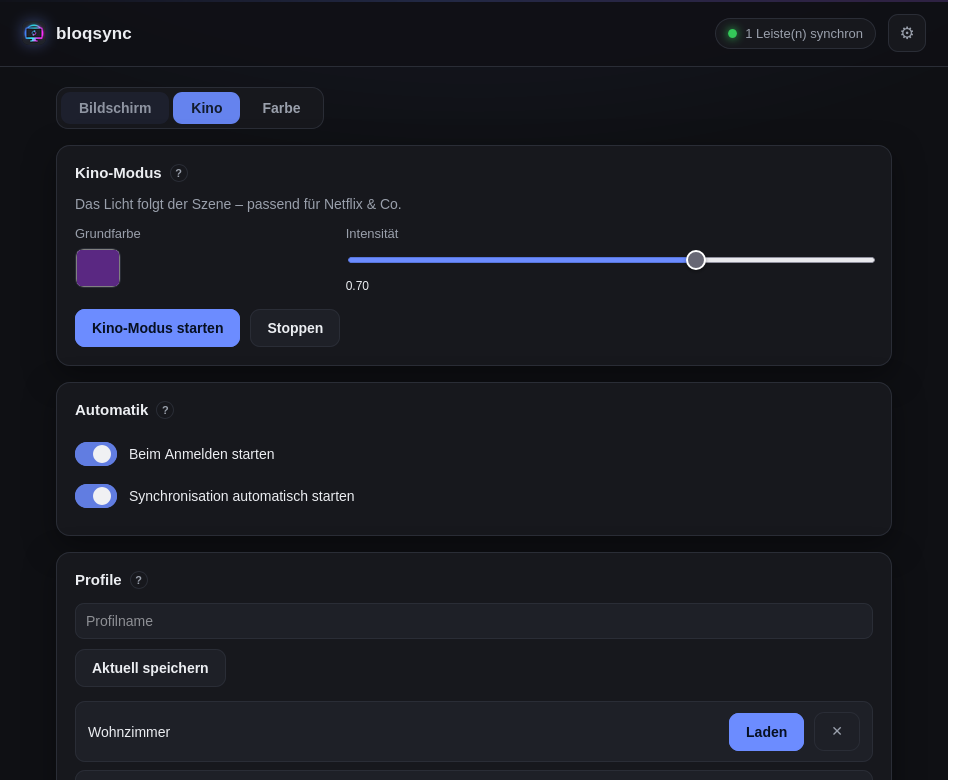
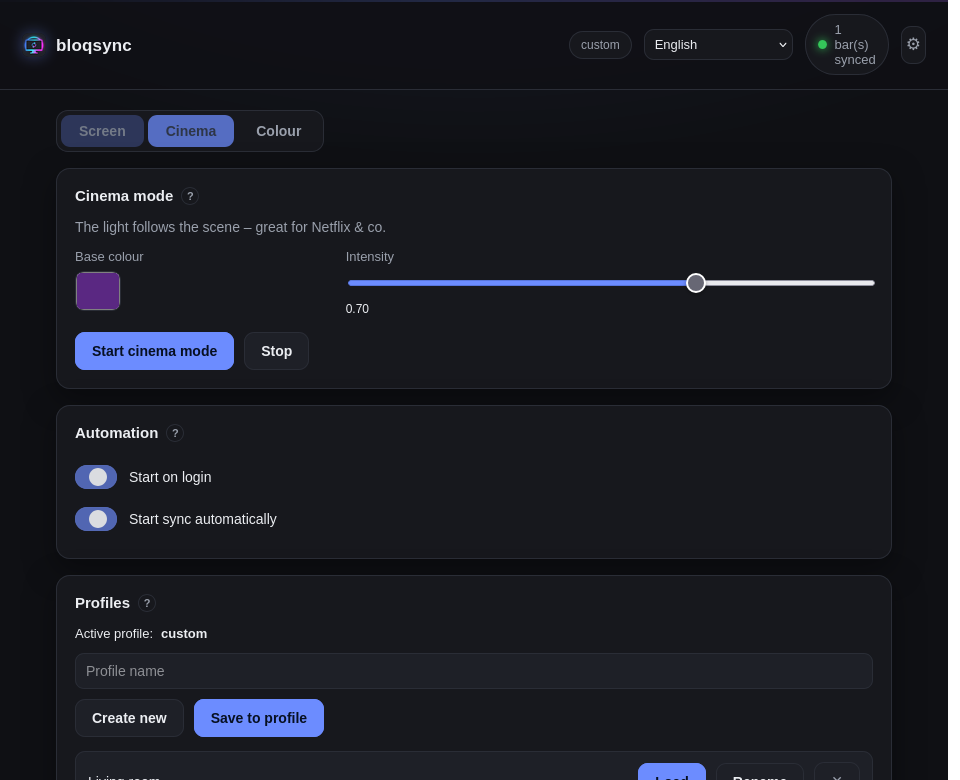
docs: refresh README for profiles, bar models and i18n; new EN screenshots
- document named profiles, bar models (LED count + edge distribution) and
  the English/German UI
- new screenshots of the English UI (normal, expert, cinema, colour)
- frame the hardware notice around configurability instead of '54 LEDs only'

diff --git a/README.md b/README.md
@@ -6,8 +6,13 @@
 [![Platform](https://img.shields.io/badge/platform-Linux%20%7C%20GNOME%2FWayland-informational)](#)
 
 High-performance ambient light ("Ambilight") screen synchronisation for the
-**ROBOBLOQ SyncLight** USB LED bar on Linux (GNOME / Wayland), plus an
+**ROBOBLOQ SyncLight** USB LED bars on Linux (GNOME / Wayland), plus an
 audio-reactive **cinema mode** for DRM content such as Netflix.
+
+- **Plug & play GUI** with a normal mode and an optional expert mode
+- **Named profiles** that remember your settings *and* the bar ↔ monitor mapping
+- **Bar models** (per-bar LED count + edge distribution) for different strip sizes
+- **English & German** UI (more languages easy to add)
 
 > **AI-generated.** The code in this repository was written by an AI model
 > (DeepSeek V4.1 Flash via OpenRouter) and is provided **as-is**. The author does
@@ -23,23 +28,27 @@ audio-reactive **cinema mode** for DRM content such as Netflix.
 > descriptively, to identify the device being driven. The reverse engineering was
 > done **for interoperability** with a personally owned device.
 >
-> **Tested only with** the ROBOBLOQ SyncLight **24″ variant (54 LEDs, firmware
-> 1.9.4)** on **Zorin OS 18.1 / GNOME 46 / PipeWire 1.0.5**, with **two monitors
-> and two bars**. Other sizes, LED counts and revisions are **not tested**.
+> **Developed and tested** on the ROBOBLOQ SyncLight **24″ variant (54 LEDs,
+> firmware 1.9.4)** on **Zorin OS 18.1 / GNOME 46 / PipeWire 1.0.5**, with **two
+> monitors and two bars**. The LED count and edge distribution are configurable
+> through [bar models](#bar-models), so other sizes can be added — they are just
+> not tested yet.
 
 ## Features
 
-- Smooth screen sync with a full **54-LED** gradient (default **24 fps**,
-  smoothing **0.22**; up to ~30 fps possible)
+- Smooth screen sync with a full LED gradient (default **24 fps**, smoothing
+  **0.22**; up to ~30 fps)
 - True per-LED / per-zone control via the fast `setSyncScreen` protocol
 - Capture through **PipeWire** (`xdg-desktop-portal` ScreenCast) — no screenshot
   subprocesses
-- Device auto-discovery, persistent configuration, **Tauri** desktop app
-- **Cinema mode** (audio-reactive) for DRM content: a fixed base colour with a
-  flowing, contrast-driven brightness taken from the audio
+- Device auto-discovery and persistent configuration (**Tauri** desktop app)
 - **Two-level UI**: a plug-and-play normal mode and an optional expert mode
-- **Named profiles** for saving and recalling settings
-- Schematic **multi-monitor map** and per-bar monitor assignment
+- **Named profiles**: save, load, rename and delete; store both settings and the
+  bar ↔ monitor assignment
+- **Bar models**: per-bar LED count and edge distribution (built-in + custom)
+- Schematic **multi-monitor map** with monitor names and per-bar assignment
+- **Cinema mode** (audio-reactive) for DRM content
+- **English / German** UI, switchable and remembered
 - The previous UI is preserved as a **legacy UI** (fallback)
 
 ## Screenshots
@@ -80,25 +89,55 @@ builds and bundles a `.deb`) or see [Building](#building).
 
 The app has two levels:
 
-- **Normal mode** — plug and play. Click **"Monitore verbinden"** to select the
+- **Normal mode** — plug and play. Click **Connect monitors** to select the
   monitors once; the app shows a schematic map and one card per bar. Each bar is
-  named after the monitor it is assigned to (Monitor 1, 2, …) and can be
-  mirrored, identified (blink) and started/stopped. Automation toggles
-  ("start on login", "start synchronisation automatically") and **profiles** are
-  always available.
-- **Expert mode** — toggle the gear icon (top right). Reveals raw settings such
-  as FPS, smoothing, brightness, zone layout, flicker filters, reports/update,
-  device identifiers and the switch to the **legacy UI**. The choice is
-  remembered.
+  named after the monitor it drives (Monitor 1, 2, …) and can be mirrored,
+  identified (blink), assigned a **bar model** and started/stopped. Automation
+  toggles and **profiles** are always available.
+- **Expert mode** — toggle the gear icon (top right). Reveals the frame rate,
+  smoothing, brightness, edge layout, flicker filters, reports/update, the
+  **bar-model** manager, device identifiers and the switch to the **legacy UI**.
+  The choice is remembered.
 
 Operating modes are selected with the segmented control at the top:
 
-- **Bildschirm (Screen)** — border sampling of the captured monitors.
-- **Kino (Cinema)** — audio-reactive lighting for DRM streams.
-- **Farbe (Colour)** — a static colour that pauses the sync.
+- **Screen** — border sampling of the captured monitors.
+- **Cinema** — audio-reactive lighting for DRM streams.
+- **Colour** — a static colour that pauses the sync.
 
-Settings are stored in `~/.config/bloqsync/config.json`. Old config files remain
-readable (new fields are additive).
+Settings and profiles are stored in `~/.config/bloqsync/config.json`. Old config
+files remain readable (all new fields are additive).
+
+### Profiles
+
+Profiles capture the current settings **and** the bar ↔ monitor assignment, so you
+can switch between setups (e.g. a mirrored arrangement) with a single click:
+
+- The active profile is shown in the top bar. Changing anything shows
+  `custom (<name>)` until you **Save to profile**.
+- **Load** re-applies a profile and discards unsaved changes.
+- Profiles can be **created**, **renamed** and **deleted**.
+
+### Bar models
+
+Every bar uses a **model** that defines its total LED count and how the LEDs are
+distributed over the monitor edges (**left / top / bottom / right**). The
+distribution decides which part of the screen each LED samples.
+
+- The default model is the **24″ SyncLight: 54 LEDs, 14/26/14** (left 14, top 26,
+  right 14, bottom 0).
+- Built-in models are shipped as JSON in [`gui/models/`](gui/models) and embedded
+  into the app; you can add your own under **Expert mode → Bar models**.
+- A profile can mix models, e.g. one 24″ and one 27″ bar.
+- If a model's LED count or distribution does not match the physical bar, the UI
+  flags it as a conflict.
+
+### Languages
+
+The UI ships with **English (default)** and **German**; switch languages in the
+top bar and the choice is remembered. Adding another language only needs a
+dictionary file: copy `gui/ui/js/lang/en.js`, translate it, and list it in
+`gui/ui/js/i18n.js`.
 
 ### CLI
 
@@ -160,7 +199,7 @@ inclusive. `end = 254` means "until the end of the strip". A section with
 2. **Several small frames per update work** (the device keeps previously set
    sections — composition), **but only with a short pause: ~3 ms between
    frames**. Without the pause the bar "rolls"/flickers. With 3 ms spacing the
-   full 54-LED gradient is stable.
+   full gradient is stable.
 3. For 54 LEDs, 5 frames of 11 sections each are sent; up to ~30 updates/s are
    possible (default: 24).
 
@@ -175,8 +214,8 @@ leading report-ID byte.
 
 ## Avoiding flicker
 
-The bar has only 54 LEDs but must represent a 1920×1080 image. If it follows
-every micro-change it visibly "jumps" between colours. Empirically:
+A bar has only a few dozen LEDs but must represent a 1920×1080 image. If it
+follows every micro-change it visibly "jumps" between colours. Empirically:
 
 - **Keep the frame rate low**: ~24 fps is the sweet spot. Smoothing acts *per
   frame*, so at 60 fps the bar reacts to noise much faster within the same time
@@ -194,7 +233,7 @@ every micro-change it visibly "jumps" between colours. Empirically:
 
 ### Optional filter toolbox (in the UI)
 
-Under "Flacker-Filter" the following are available for comparison: `none`,
+Under *Flicker filter* the following are available for comparison: `none`,
 `Deadband`, `Quantize`, `Quantize + smooth`, `Median 3/5`, `Mean 4`,
 `Smooth (hysteresis + ramp)` and `Test (negative)` (diagnostic). The filter is
 applied when a bar is **started**.
@@ -219,9 +258,9 @@ Protected streams deliver only black through ScreenCast, so there is a purely
 
 - **Autostart:** the "start on login" toggle writes
   `~/.config/autostart/bloqsync.desktop`.
-- **Auto-sync:** the "start synchronisation automatically" toggle starts at app
-  launch and keeps the configured bars running via a **watchdog** (every 2 s),
-  including **automatic reconnect** after unplugging/replugging.
+- **Auto-sync:** the "start sync automatically" toggle starts at app launch and
+  keeps the configured bars running via a **watchdog** (every 2 s), including
+  **automatic reconnect** after unplugging/replugging.
 - **Restore token:** the monitor selection is stored as a persistent portal token
   in `~/.config/bloqsync/config.json`, so the GNOME monitor dialog appears only
   **once**; afterwards everything starts without a dialog.
@@ -254,13 +293,17 @@ gui/            Tauri v2 app
   src/
     main.rs       builder wiring only
     config.rs     config types, defaults, JSON persistence, profiles/presets
+    bar_models.rs built-in bar models (embedded JSON) + validation
     state.rs      AppState and runtime handles
     runtime.rs    capture/bar/cinema lifecycle, autostart, background threads
     commands.rs   Tauri commands
     logging.rs    file + stderr logging
     monitors.rs   xrandr setup signature/parsing
-  ui/             HTML/CSS/ES-module frontend (normal + expert modes)
-  ui/legacy/      preserved previous UI
+  models/         shipped bar-model JSON
+  ui/             HTML/CSS/ES-module frontend
+    js/           state, screen, profiles, models, i18n, …
+    js/lang/      en, de (add more here)
+    legacy/       preserved previous UI
 ```
 
 Capture uses `xdg-desktop-portal` ScreenCast v5 (GNOME picker on start), one
@@ -292,12 +335,12 @@ System dependencies (development): `libpipewire-0.3-dev`, `libspa-0.2-dev`,
 
 - **Not maintained:** a one-off AI-generated snapshot (see the notice at the top).
   Issues/PRs are unlikely to be handled → please **fork**.
-- **Tested with one model only:** ROBOBLOQ SyncLight, **24″ variant with 54 LEDs**
+- **Developed on one model:** ROBOBLOQ SyncLight, **24″ variant with 54 LEDs**
   (firmware 1.9.4), on GNOME/Wayland (Zorin OS 18.1 / GNOME 46, PipeWire 1.0.5),
-  two monitors + two bars. Other models / LED counts / revisions are **untested**.
-- The update rate **decreases with a higher LED count** (more sections → more
-  64-byte frames per update), and the **default zone layout is tuned for 54 LEDs**
-  (18/18/18). Use at your own risk.
+  two monitors + two bars. Other sizes/revisions are untested, but the **bar-model**
+  system is meant to make them easy to add.
+- The update rate depends on the LED count (more LEDs → more 64-byte frames per
+  update). The shipped model targets 54 LEDs; other counts can be modelled.
 - **Capture** goes through `xdg-desktop-portal` ScreenCast; the monitor dialog
   appears only the first time (restore token).
 - The **protocol is reverse-engineered** and may differ on other firmware or
@@ -308,9 +351,9 @@ System dependencies (development): `libpipewire-0.3-dev`, `libspa-0.2-dev`,
 
 - **Questions / chat:** GitHub *Discussions*.
 - **Bugs:** *Issues* → "Bug report".
-- **Different model?** Please use *Issues* → "Hardware / compatibility". So far
-  only the **24″ variant (54 LEDs)** has been tested — reports about other sizes
-  and LED counts are very welcome.
+- **Different bar?** Please use *Issues* → "Hardware / compatibility". So far only
+  the 24″/54-LED variant has been verified — reports about other sizes, LED counts
+  and a matching bar-model JSON are very welcome.
 - No telemetry: the tool sends **nothing** anywhere.
 
 ## Acknowledgements
